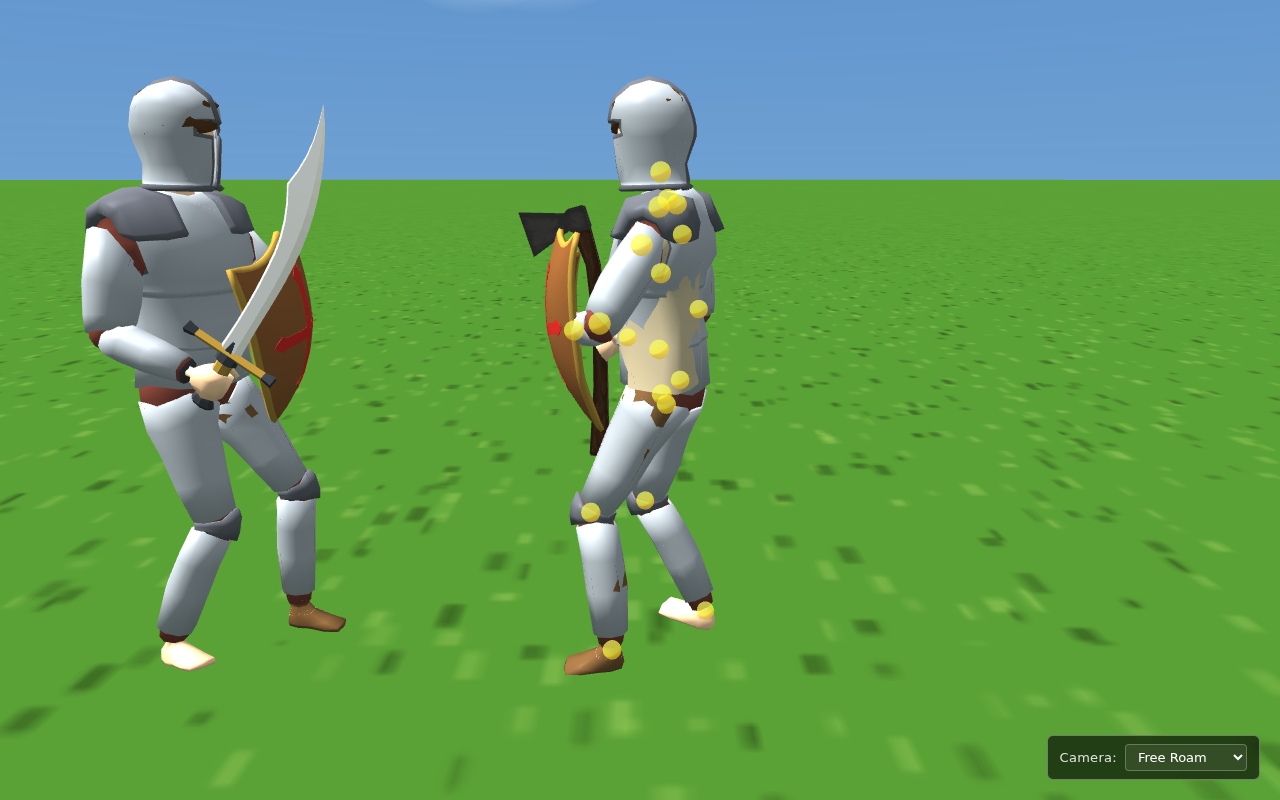
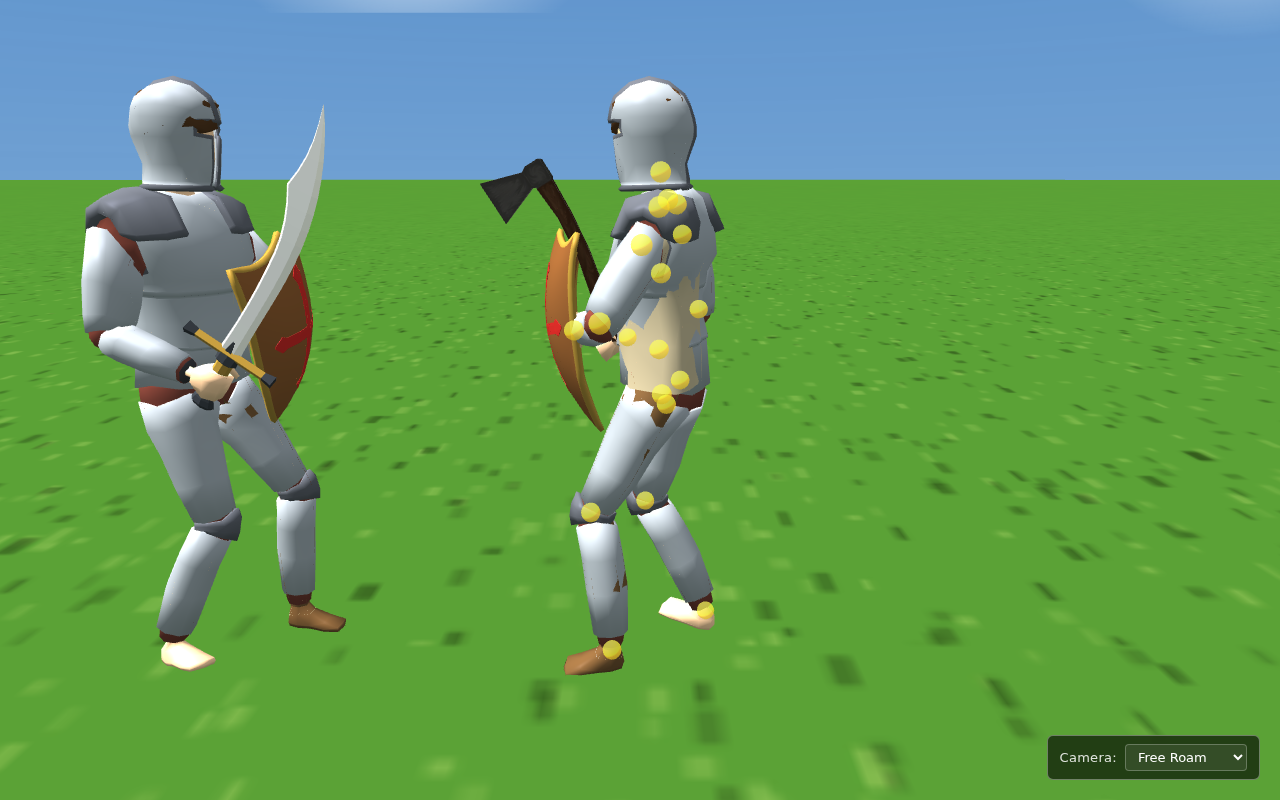
commit

diff --git a/src/editor/editor-scene.ts b/src/editor/editor-scene.ts
@@ -328,11 +328,11 @@ export async function createEditorScene(scene: Scene): Promise<EditorSceneApi | 
     const weaponLibrary = await loadWeaponLibrary(scene)
 
     // Make the axe Model 1's primary weapon — hides its stock sword on
-    // Hand Hold.R and attaches the textured axe at rotation (90, 90, 45)
+    // Hand Hold.R and attaches the textured axe at rotation (90, 90, 30)
     // degrees. Model 2 keeps its sword for combat-sparring contrast.
     attachWeaponToHand(
       scene, weaponLibrary, 'axe_textured',
-      m1.glbMeshes, m1.skeleton, 'Hand Hold.R', [90, 90, 45],
+      m1.glbMeshes, m1.skeleton, 'Hand Hold.R', [90, 90, 30],
     )
 
 
@@ -379,9 +379,16 @@ const WEAPON_CATALOGUE: Array<{
   // Fraction of the total mesh height (from the bottom) that counts as
   // "handle" for the extension. Default 0.6 = bottom 60% is handle.
   handleFractionFromBottom?: number
+  // When true, shifts all vertices up so the lowest point (handle tip)
+  // sits at mesh-local Y=0. The hand bone's origin is therefore at the
+  // END of the pole — knight grips the handle tip, not the middle. Lets
+  // the handle's length grow/shrink without shifting where the model
+  // holds it.
+  gripAtBottom?: boolean
 }> = [
-  // 0.4m extension → total ≈ 1.0m, roughly sword-length.
-  { file: 'axe_textured.glb', stem: 'axe_textured', kind: 'axe', targetMaxDim: 0.6, handleExtensionM: 0.4, handleFractionFromBottom: 0.6 },
+  // 0.12m extension → total ≈ 0.77m (10% shorter than the 0.86m the
+  // 0.2 extension yielded). Grip anchored at handle tip.
+  { file: 'axe_textured.glb', stem: 'axe_textured', kind: 'axe', targetMaxDim: 0.6, handleExtensionM: 0.12, handleFractionFromBottom: 0.6, gripAtBottom: true },
 ]
 
 export async function loadWeaponLibrary(scene: Scene): Promise<WeaponLibraryEntry[]> {
@@ -413,8 +420,15 @@ export async function loadWeaponLibrary(scene: Scene): Promise<WeaponLibraryEntr
       if (entry.handleExtensionM && entry.handleExtensionM > 0) {
         extendWeaponHandle(meshes, entry.handleExtensionM, entry.handleFractionFromBottom ?? 0.6)
       }
+      // Optional grip-at-bottom shift — moves the mesh origin to the
+      // handle tip so the hand bone grips the END of the pole (not the
+      // middle). Runs LAST so any length changes from extendWeaponHandle
+      // are reflected before measuring.
+      if (entry.gripAtBottom) {
+        shiftMeshOriginToBottom(meshes)
+      }
       library.push({ stem: entry.stem, meshes, kind: entry.kind })
-      console.log(`[editor] weapon library: '${entry.stem}' (${entry.kind}) — ${meshes.length} mesh(es), normalized to ${entry.targetMaxDim}m${entry.handleExtensionM ? ` + ${entry.handleExtensionM}m handle stretch` : ''}`)
+      console.log(`[editor] weapon library: '${entry.stem}' (${entry.kind}) — ${meshes.length} mesh(es), normalized to ${entry.targetMaxDim}m${entry.handleExtensionM ? ` + ${entry.handleExtensionM}m handle stretch` : ''}${entry.gripAtBottom ? ' + grip-at-bottom' : ''}`)
     } catch (err) {
       console.warn(`[editor] failed to load weapon '${entry.stem}':`, err)
     }
@@ -521,6 +535,34 @@ function extendWeaponHandle(
       if (y >= handleTopY) continue
       const fraction = (handleTopY - y) / handleLen
       newPositions[i] = y - fraction * extensionM
+    }
+    m.setVerticesData(VertexBuffer.PositionKind, newPositions, true)
+    m.refreshBoundingInfo()
+  }
+}
+
+// Translate all vertices upward by -minY so the lowest point of the
+// mesh lands at Y=0 in mesh-local space. Used for weapons with
+// `gripAtBottom: true` — the bone-attached mesh's local origin then
+// coincides with the handle's tip, so the knight grips the END of the
+// pole, not the middle. Re-running `extendWeaponHandle` first ensures
+// "bottom" reflects the post-stretch handle length.
+function shiftMeshOriginToBottom(meshes: Mesh[]): void {
+  let minY = Infinity
+  for (const m of meshes) {
+    const positions = m.getVerticesData(VertexBuffer.PositionKind)
+    if (!positions) continue
+    for (let i = 1; i < positions.length; i += 3) {
+      if (positions[i] < minY) minY = positions[i]
+    }
+  }
+  if (!Number.isFinite(minY) || Math.abs(minY) < 1e-5) return
+  for (const m of meshes) {
+    const positions = m.getVerticesData(VertexBuffer.PositionKind)
+    if (!positions) continue
+    const newPositions = new Float32Array(positions)
+    for (let i = 1; i < positions.length; i += 3) {
+      newPositions[i] -= minY
     }
     m.setVerticesData(VertexBuffer.PositionKind, newPositions, true)
     m.refreshBoundingInfo()

diff --git a/src/game/characters/hero.ts b/src/game/characters/hero.ts
@@ -98,12 +98,12 @@ export function createHero(scene: Scene, weaponLibrary?: WeaponLibraryEntry[]): 
       const headNode = headBone?._linkedTransformNode ?? null
 
       // Primary weapon: replace stock sword with the axe-textured library
-      // entry. Rotation (90, 90, 45) deg matches what the user dialled
-      // in via the Creator on Model 3.
+      // entry. Rotation (90, 90, 30) deg — slight forward lean from the
+      // hand for a more natural battle-axe grip.
       if (weaponLibrary && skeleton) {
         attachWeaponToHand(
           scene, weaponLibrary, 'axe_textured',
-          result.meshes, skeleton, 'Hand Hold.R', [90, 90, 45],
+          result.meshes, skeleton, 'Hand Hold.R', [90, 90, 30],
         )
       }
 

diff --git a/claude_instructions/notes.md b/claude_instructions/notes.md
@@ -14,7 +14,7 @@ First-person sword-and-shield duel game (KCD-style). Web first, mobile later via
 - ✅ Editor features: bone-pick (sphere click), 3-axis knob rotation, **Hips X/Y/Z TRANSLATE stepper with leg-plant IK (feet stay glued to their world positions while body shifts)**, editable typed input + scroll-wheel + ± buttons, save Pose / Save Anchor, build Animation from anchor sequence with time offsets, **Initial Position virtual pose** (top of Poses list, system, can't delete), virtual Initial Position anchor, rename poses/anchors via ✎ icon, **Edit animation = ✎ opens full builder preloaded for in-place tinker**, **animations can pick an Initial Pose** that the model snaps to before keyframes play, import baked Knight GLB animations as anchor+animation pairs, per-animation hero/opponent key bindings
 - ✅ **Three-model editor** — Model 1 + Model 2 + Custom along X axis at (50,0,0), (51.5,0,0), (53.0,0,0). Custom is skeleton-only (all GLB meshes hidden via `isVisible = false` flagged on load by `loadKnightInstance(..., hideAllMeshes=true)`) — user builds the body part-by-part via the Creator tab. Active-model selector in left dash routes all bone-control / anim-preview to the selected one. Each model row has ✎ edit (rename + visibility toggle).
 - ✅ **Character Creator tab** (right panel, third tab alongside Bones + Style) — only operational when active model is Custom (idx 2). **Clone-only** (May 26): body bones (skinned extraction via `getAbsoluteInverseBindMatrix()` + `attachToBone()`) and props (sword + shield + future). Multi-primitive props auto-grouped into one TransformNode so a 4-piece sword rotates as one. Procedural primitives (sphere/box/cylinder/capsule) dropped from the Add UI but legacy parts still render. **Body / Armor split (May 27)** — `meshFilter` on `CreatorPart` clamps skinned extraction to specific source-mesh stems. `BODY_MESH_STEMS = [Body, Hair, Shirt, Pants, Shoes]` for the soft layer; `ARMOR_MESH_STEMS = [Helmet, Platebody, Platelegs]` for the metal layer. Add-target dropdown is 3-level nested: **Body › region › bone**, **Armor › region › bone**, **Weapons › Sword/Shield/Other**, **Weapons (library) › Axe**. Per-part accordion: header is chevron + bone dropdown + delete (the section header carries category context, no more redundant "shape" label in the card). Parts list is itself sectioned to mirror the dropdown taxonomy (Body / Armor / Weapons). Persists to library.json (`groupMeshNames`, `sourceMeshName`, `meshFilter` ride through). Button says "+ Add" (was "+ Add clone" — they're components, not clones).
-- ✅ **Weapon library (May 27)** — extra GLBs from `public/models/weapons/` loaded async at editor scene init via `loadWeaponLibrary()`. Each `WEAPON_CATALOGUE` entry has `targetMaxDim` (m) — geometry is auto-normalised via local-vertex × scale-factor multiply + `setVerticesData(..., updatable=true)`. Surfaced in Creator dropdown as `Weapons (library)` category. `attachWeaponToHand(scene, lib, stem, glbMeshes, skeleton, bone, rotDeg)` makes a weapon the primary equipment on any knight — hides existing bone-parented meshes, clones the source material (so PBR textures + albedoTextures + normal maps carry through), parents to the bone's linkedTransformNode with parent-scale-normalised user transform. Used to equip the textured axe as Model 1's + hero's primary weapon at rotation `(90, 90, 45)` deg.
+- ✅ **Weapon library (May 27)** — extra GLBs from `public/models/weapons/` loaded async at editor scene init via `loadWeaponLibrary()`. Each `WEAPON_CATALOGUE` entry has `targetMaxDim` (m) — geometry is auto-normalised via local-vertex × scale-factor multiply + `setVerticesData(..., updatable=true)`. Optional **`handleExtensionM`** (m) stretches only the handle (lower portion, head stays native via linear falloff). Optional **`gripAtBottom`** shifts the mesh origin to the handle tip so the knight grips the END of the pole, not the middle. Surfaced in Creator dropdown as `Weapons (library)` category. `attachWeaponToHand(scene, lib, stem, glbMeshes, skeleton, bone, rotDeg)` makes a weapon the primary equipment on any knight — hides existing bone-parented meshes, clones the source material (so PBR textures + albedoTextures + normal maps carry through), parents to the bone's linkedTransformNode with parent-scale-normalised user transform. Current axe: total ≈ 0.86m, grip at handle tip, rotation `(90, 90, 30)` deg on Model 1 + hero's Hand Hold.R.
 - ✅ **Multi-model spawn ergonomics (May 26)** — `+` button on the Models section header spawns a fresh visible knight 1.5m to the right of the rightmost model. `👁`/`🚫` toggle on each model row hides/shows in-place (no edit modal). `🎯` button focuses the editor camera on that model — highlights orange when that's the currently-focused model. BODY POSITION (world) is now editable — typing X/Y/Z updates both `model.position` (spawn anchor) and `model.root.position`, so each model can spawn anywhere. Reset goes back to the edited spawn position.
 - ✅ **Sync Play (May 27)** — per-model anim selection via `syncAnims: string[]` (indexed by model idx). Each model row in the SyncPlay UI binds to its own slot, so Custom no longer shares state with Model 2. `▶ Play all` fires every model that has an anim selected.
 - ✅ **Per-model Style tab (May 27)** — each model owns its own `matCache: Map<slot, StandardMaterial>` (per-instance, not shared). `getEditorMaterials` / `setEditorMaterialColor` / `resetEditorMaterials` route through `active().matCache` — recolouring one knight no longer affects others. Baseline colour for Reset is stashed on `material.metadata.baselineHex` per material instance. Style tab re-fetches swatches when the active model changes.
@@ -568,16 +568,27 @@ External weapon GLBs live in `public/models/weapons/`. Loaded async at editor-sc
 
 ### Catalogue + auto-normalise
 
-`WEAPON_CATALOGUE` in `editor-scene.ts` is an array of `{ file, stem, kind, targetMaxDim }`. Adding a new weapon = one entry + dropping its GLB. Current:
+`WEAPON_CATALOGUE` in `editor-scene.ts` is an array of optional-rich entries. Adding a new weapon = one entry + dropping its GLB. Current:
 
 ```ts
-{ file: 'axe_textured.glb', stem: 'axe_textured', kind: 'axe', targetMaxDim: 0.6 }
+{
+  file: 'axe_textured.glb',
+  stem: 'axe_textured',
+  kind: 'axe',
+  targetMaxDim: 0.6,            // baseline normalize (head + handle)
+  handleExtensionM: 0.2,        // optional handle stretch (anchored at head/handle ring)
+  handleFractionFromBottom: 0.6,// bottom 60% of mesh = handle
+  gripAtBottom: true,           // shift origin to handle tip → bone grips end of pole
+}
 ```
 
-At load:
+At load, in this order:
 1. `SceneLoader.ImportMeshAsync` loads the GLB.
-2. Mesh visibility is left to default; meshes are added to the library entry's `meshes[]`.
-3. `normalizeWeaponMeshes(meshes, targetMaxDim)` walks LOCAL vertex coords (NOT world — parent transforms after load can be lazy/contain Blender→glTF conversion factors), computes the union bbox, calculates `factor = targetMaxDim / maxLocalDim`, and bakes the factor into each mesh's positions via `setVerticesData(VertexBuffer.PositionKind, scaledPositions, /* updatable */ true)`. **Critical gotcha**: `updateVerticesData` silently no-ops on non-updatable GLB-loaded buffers — use `setVerticesData(...,  true)` which replaces the buffer with an updatable one. After bake, mesh's local transform resets to identity + `parent = null`, so the mesh is self-contained at the normalised scale and clones inherit correctly.
+2. `normalizeWeaponMeshes(meshes, targetMaxDim)` walks LOCAL vertex coords (NOT world — parent transforms after load can be lazy/contain Blender→glTF conversion factors), computes the union bbox, calculates `factor = targetMaxDim / maxLocalDim`, and bakes the factor into each mesh's positions via `setVerticesData(VertexBuffer.PositionKind, scaledPositions, /* updatable */ true)`. **Critical gotcha**: `updateVerticesData` silently no-ops on non-updatable GLB-loaded buffers — use `setVerticesData(..., true)` which replaces the buffer with an updatable one. After bake, mesh's local transform resets to identity + `parent = null`.
+3. `extendWeaponHandle(meshes, extensionM, handleFractionFromBottom)` — optional. Stretches the handle only (head stays native size). Finds Y bbox, defines `handleTopY = minY + totalHeight * fraction`. For each vertex with `y < handleTopY`, translates DOWN by `(handleTopY - y) / handleLen * extensionM` (linear falloff anchored at the head/handle ring, so the silhouette stays watertight).
+4. `shiftMeshOriginToBottom(meshes)` — optional (`gripAtBottom: true`). Translates all vertices up by `-minY` so the handle tip sits at mesh-local Y=0. When `attachWeaponToHand` parents the result at the hand bone, the bone's origin coincides with the handle tip — knight grips the END of the pole, not the middle. Runs AFTER the handle stretch so "bottom" reflects post-stretch length: change `handleExtensionM` and the grip-end stays at the (now longer/shorter) tip.
+
+Current axe parameters land at total ≈ 0.86m (sword-ish), gripped at the bottom of the handle. Both attached at rotation `(90, 90, 30)` deg on Hand Hold.R for Model 1 + hero.
 
 ### `attachWeaponToHand` — install a weapon as primary equipment
 
@@ -693,6 +704,16 @@ Combat state will live in React (App.tsx will own `playerHP`, `opponentHP`, `inc
 - WASD free-roam locomotion in FP mode — input-driven `root.position` translation + walk-cycle anim on top (decoupled from the per-keyframe-displacement system, which is for discrete moves)
 - Mouse-look for hero in Locked camera (currently click-drag)
 - Production-safe persistence (current `/api/animations` is dev-only Vite middleware)
+
+## Lessons captured (weapon polish + native-GLB A/B session, 2026-05-27 evening)
+
+F1. **Weapon handle stretch via linear-falloff vertex shift.** "Extend only the handle, keep the head untouched" maps cleanly to: find Y bbox, pick a head/handle threshold (bottom 60% = handle), for each vertex below threshold translate down by `(handleTopY - y) / handleLen * extensionM`. Top vertex of handle moves 0, bottom vertex moves `extensionM`. Anchored at head, so the head/handle ring stays watertight. Avoids the discontinuity of "translate all vertices below threshold by a fixed amount" (which would tear the mesh at the join).
+
+F2. **Grip-at-bottom = shift mesh origin to handle tip.** `attachWeaponToHand` parents the weapon at the bone's origin. If the mesh's authored origin is at the middle of the pole, the knight grips the middle. To grip the END, just translate every vertex up by `-minY` so the lowest point lands at Y=0 in mesh-local. The bone's origin then coincides with the handle tip. Crucially this must run AFTER `extendWeaponHandle` — measuring `minY` against the post-stretched geometry means changing the extension later keeps the grip at the new tip automatically. The two ops compose cleanly via load-time vertex baking, no per-instance transform fiddling needed.
+
+F3. **Sister's re-export from Blender vs ours from fbx2gltf — identical materials, different rest poses.** Native GLB export (combat stance) and fbx2gltf-converted GLB (T-pose) ship the SAME 23 meshes + the SAME PBR materials. The textures/colours that were "missing" on the older converted version were because of the original FBX export settings, not the conversion. Lesson: when asset-store colours look wrong post-conversion, re-export from Blender with clean settings before suspecting fbx2gltf. Also: visual issues in the asset can persist across BOTH re-exports — sometimes the source FBX itself just has missing/misplaced submeshes (artist's authoring quirk), not a pipeline problem. Decision: stick with our current `knight.glb` + `matCache` palette since both v2 imports had the same gaps and switching would invalidate IK + saved poses + rest matrices.
+
+F4. **Catalogue-driven per-weapon transforms scale better than per-call args.** Adding `handleExtensionM`/`handleFractionFromBottom`/`gripAtBottom` to `WEAPON_CATALOGUE` entries (rather than function args) means future weapons just declare their treatment once. Sword would set `gripAtBottom: false`, no handle stretch. Hammer would set both. The loader does the right thing without callers needing to know each weapon's geometry quirks. Auto-categorise the result and the engine + UI + Creator all consume identically.
 
 ## Lessons captured (Weapon library + Body/Armor split session, 2026-05-27)
 
